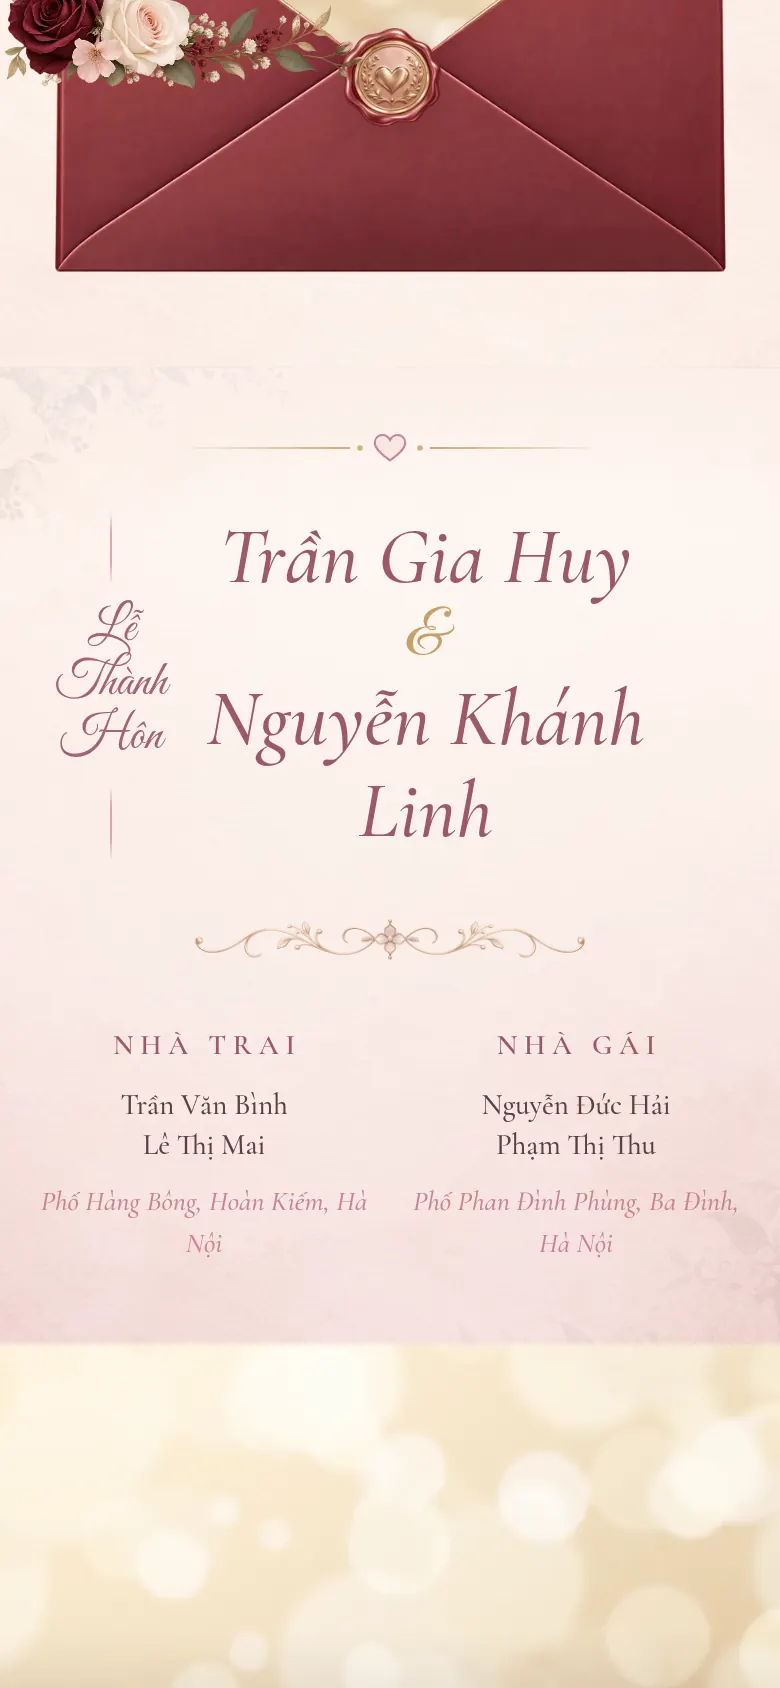
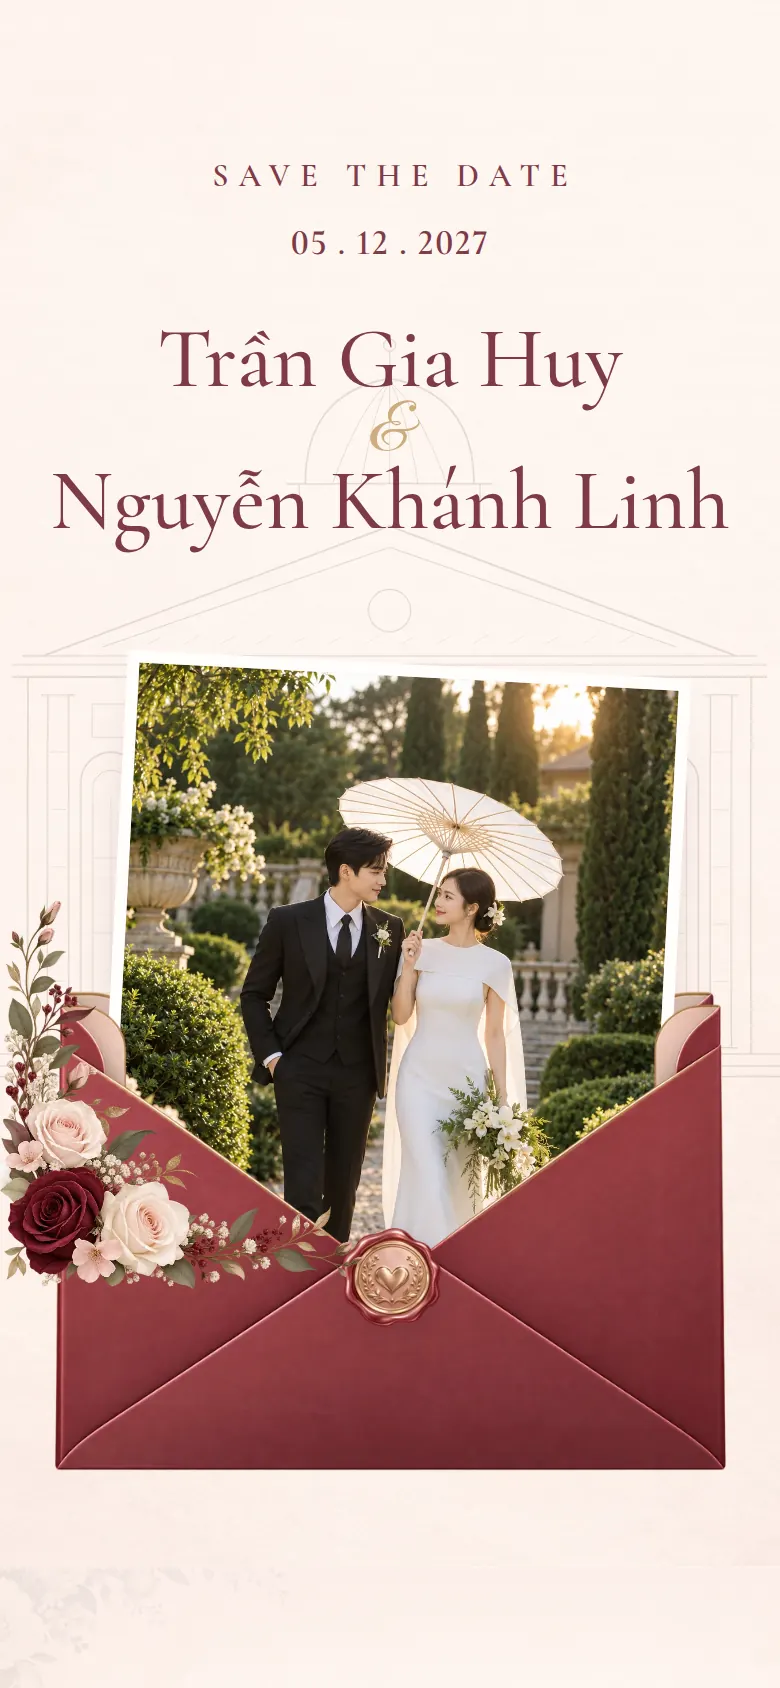
feat: fictional wedding photos for the Romantic Minimal showroom demo
Wire ten AI-generated fictional wedding photographs, created for the
showroom on 2026-10-13 from Product Owner-supplied visual references,
into the wedding.romantic-minimal.v1 public demo only, through
DEMO_TEMPLATE_SLOT_PHOTO_SETS: saveTheDatePhoto 01, justMarriedPhoto 02,
ourLovePhotos 03/04/05, gallery all ten (06, 07, 09, 08, 01, 04, 03, 05,
02, 10), thankYouPhoto 10. The set is keyed through the registered
manifest identity, so the RM-02 key-literal boundary stays intact.

Source PNGs (~25 MB) converted to same-size WebP (q86, ~2.4 MB total);
only the WebP files are committed, one file per photo. Romantic Minimal
inside screenshot re-captured (the closed cover is unchanged). Other
demos unchanged. Same fictional data; demo RSVP never sends a request.
No renderer, CSS, Staff Admin, migration, DB/RLS/API or Production change.

diff --git a/lib/showroom/demo/demo-media.ts b/lib/showroom/demo/demo-media.ts
@@ -1,4 +1,5 @@
 import type { MediaResolution, MediaResolver } from "../../invitation-rendering/invitation-view-model-types";
+import { PRODUCTION_RENDERER_MANIFESTS } from "../../../templates/core/production-renderer-manifests";
 
 /**
  * LAUNCH-P0-04 — showroom demo imagery.
@@ -7,7 +8,8 @@ import type { MediaResolution, MediaResolver } from "../../invitation-rendering/
  * generated in this repository; provenance in `lib/showroom/demo/ASSETS.md`.
  * They stand in for a couple's photographs in public demos only and are never
  * a production fallback for any Project. A renderer with an entry in
- * `DEMO_LEGACY_ROLE_PHOTO_SETS` shows that fictional photography instead.
+ * `DEMO_LEGACY_ROLE_PHOTO_SETS` or `DEMO_TEMPLATE_SLOT_PHOTO_SETS` shows that
+ * fictional photography instead.
  */
 
 export const DEMO_MEDIA_BASE_PATH = "/showroom/demo/";
@@ -91,9 +93,14 @@ export const DEMO_LEGACY_ROLE_PHOTO_SETS: Readonly<Record<string, DemoLegacyRole
  */
 export type DemoTemplateSlotPhotoSet = Readonly<Record<string, readonly DemoImage[]>>;
 
-/** A WebP photo under `<folder>/photos/`; portrait photos are 1086×1448, landscape 1448×1086. */
-function folderPhoto(folder: string, name: string, orientation: "PORTRAIT" | "LANDSCAPE" = "PORTRAIT"): DemoImage {
-  const [width, height] = orientation === "LANDSCAPE" ? [1448, 1086] : [1086, 1448];
+/** A WebP photo under `<folder>/photos/`; landscape photos are 1448×1086, portraits `portraitSize` (default 1086×1448). */
+function folderPhoto(
+  folder: string,
+  name: string,
+  orientation: "PORTRAIT" | "LANDSCAPE" = "PORTRAIT",
+  portraitSize: readonly [number, number] = [1086, 1448],
+): DemoImage {
+  const [width, height] = orientation === "LANDSCAPE" ? [1448, 1086] : portraitSize;
   return Object.freeze({ file: `${folder}/photos/${name}.webp`, width, height, orientation });
 }
 
@@ -112,11 +119,43 @@ const VH_PHOTOS = Object.freeze(
   ].map(([name, orientation]) => folderPhoto("vietnamese-heritage", name ?? "", orientation === "LANDSCAPE" ? "LANDSCAPE" : "PORTRAIT")),
 );
 
+/** Romantic Minimal portraits are 1024×1536 (2:3); 02 and 10 are 1448×1086 landscapes. */
+const RM_PHOTOS = Object.freeze(
+  [
+    ["01-save-the-date-umbrella-couple"],
+    ["02-just-married-garden-couple", "LANDSCAPE"],
+    ["03-our-love-bride-golden-garden"],
+    ["04-our-love-lakeside-couple"],
+    ["05-our-love-groom-garden"],
+    ["06-golden-hour-dance"],
+    ["07-garden-wedding-vows"],
+    ["08-rose-petal-celebration"],
+    ["09-wedding-couple-steps"],
+    ["10-thank-you-ivory-bow", "LANDSCAPE"],
+  ].map(([name, orientation]) =>
+    folderPhoto("romantic-minimal", name ?? "", orientation === "LANDSCAPE" ? "LANDSCAPE" : "PORTRAIT", [1024, 1536]),
+  ),
+);
+
 /** Numbered photo `n` (1-based, the file name prefix) of a set. */
 function nth(photos: readonly DemoImage[], n: number): DemoImage {
   const photo = photos[n - 1];
   if (photo === undefined) throw new Error("Showroom demo photo number is out of range");
   return photo;
+}
+
+/**
+ * The registered renderer key for one template identity, so frozen renderers
+ * whose static boundary forbids their key literal outside their own files can
+ * still be keyed here. Fails closed unless exactly one renderer matches.
+ */
+function registeredRendererKey(templateCode: string, versionNumber: number): string {
+  const matches = PRODUCTION_RENDERER_MANIFESTS.filter(
+    (manifest) => manifest.identity.templateCode === templateCode && manifest.identity.versionNumber === versionNumber,
+  );
+  const manifest = matches[0];
+  if (manifest === undefined || matches.length !== 1) throw new Error("Showroom demo photo set names no single registered renderer");
+  return manifest.compatibility.rendererKey;
 }
 
 /** Slot photo sets by exact renderer key. A renderer without one keeps the abstract mood images. */
@@ -132,6 +171,18 @@ export const DEMO_TEMPLATE_SLOT_PHOTO_SETS: Readonly<Record<string, DemoTemplate
     // All ten in file-number order, except 05 and 06 swap so the landscape 05 lands on the
     // album's full-width "wide" row (position 6) instead of a tall pair (position 5).
     gallery: Object.freeze([1, 2, 3, 4, 6, 5, 7, 8, 9, 10].map((n) => nth(VH_PHOTOS, n))),
+  }),
+  // wedding.romantic-minimal.v1 (RM-02 keeps that key literal inside the renderer's own files).
+  [registeredRendererKey("romantic-minimal", 1)]: Object.freeze({
+    saveTheDatePhoto: Object.freeze([nth(RM_PHOTOS, 1)]),
+    justMarriedPhoto: Object.freeze([nth(RM_PHOTOS, 2)]),
+    // Positions 1, 2, 3: bride solo, couple by the lake, groom solo.
+    ourLovePhotos: Object.freeze([nth(RM_PHOTOS, 3), nth(RM_PHOTOS, 4), nth(RM_PHOTOS, 5)]),
+    // All ten, two per row of uniform 4:5 tiles. Opens on frames not already shown above
+    // (06 dance / 07 vows, 09 close-up / 08 petals), then 01 / 04, the bride and groom
+    // solos side by side, and the two landscapes last, leading into the Thank You photo.
+    gallery: Object.freeze([6, 7, 9, 8, 1, 4, 3, 5, 2, 10].map((n) => nth(RM_PHOTOS, n))),
+    thankYouPhoto: Object.freeze([nth(RM_PHOTOS, 10)]),
   }),
 });
 

diff --git a/lib/showroom/__tests__/showroom-demo.test.ts b/lib/showroom/__tests__/showroom-demo.test.ts
@@ -111,6 +111,40 @@ describe("LAUNCH-P0-04 showroom demos run the real pipeline", () => {
     }
   });
 
+  it("Romantic Minimal shows its fictional photo set slot by slot for COMMON/GROOM/BRIDE", async () => {
+    const set = DEMO_TEMPLATE_SLOT_PHOTO_SETS["wedding.romantic-minimal.v1"];
+    expect(set).toBeDefined();
+    if (set === undefined) return;
+    const url = (image: DemoImage) => `${DEMO_MEDIA_BASE_PATH}${image.file}`;
+    const urlOf = (item: unknown) => (item as { status: string; url?: string }).url;
+    const name = (image: DemoImage) => image.file.split("/").pop()?.replace(/\.webp$/, "");
+    expect(set.saveTheDatePhoto?.map(name)).toStrictEqual(["01-save-the-date-umbrella-couple"]);
+    expect(set.justMarriedPhoto?.map(name)).toStrictEqual(["02-just-married-garden-couple"]);
+    expect(set.ourLovePhotos?.map(name)).toStrictEqual([
+      "03-our-love-bride-golden-garden",
+      "04-our-love-lakeside-couple",
+      "05-our-love-groom-garden",
+    ]);
+    expect(set.thankYouPhoto?.map(name)).toStrictEqual(["10-thank-you-ivory-bow"]);
+    // All ten distinct photographs, each file once.
+    const gallery = set.gallery?.map(name) ?? [];
+    expect(gallery.map((file) => file?.slice(0, 2)).sort()).toStrictEqual(["01", "02", "03", "04", "05", "06", "07", "08", "09", "10"]);
+    expect(new Set(Object.values(set).flat().map((image) => image.file)).size).toBe(10);
+    for (const image of Object.values(set).flat()) {
+      const landscape = image.file.includes("/02-") || image.file.includes("/10-");
+      expect([image.width, image.height, image.orientation], image.file).toStrictEqual(
+        landscape ? [1448, 1086, "LANDSCAPE"] : [1024, 1536, "PORTRAIT"],
+      );
+    }
+    for (const variant of INVITATION_VARIANTS) {
+      const { viewModel } = await buildDemoRenderData("wedding.romantic-minimal.v1", variant);
+      const slots = viewModel.media.templateSlots ?? {};
+      for (const [slotKey, images] of Object.entries(set)) {
+        expect((slots[slotKey] ?? []).map(urlOf), `${variant} ${slotKey}`).toStrictEqual(images.map(url));
+      }
+    }
+  });
+
   it("the Vietnamese Heritage demo runs v2 and shows only Gia Huy / Khánh Linh, in variant order", async () => {
     const vh = PUBLIC_SHOWROOM_TEMPLATES.find((template) => template.templateCode === "vietnamese-heritage");
     expect(vh?.rendererKey).toBe("wedding.vietnamese-heritage.v2");

diff --git a/docs/DECISIONS.md b/docs/DECISIONS.md
@@ -2934,7 +2934,7 @@ On branch `launch-p0-04-public-showroom` from `origin/weddingclick-v2` `aeca9a6`
 
 1. **Catalog.** A public-safe marketing manifest keyed by template code (`lib/showroom/showroom-catalog.ts`), validated against `PRODUCTION_COMPATIBILITY_REGISTRY`; tests also pin each public code/name to the catalog seed migrations (0033, 0047, 0048). The Staff templates API and its RLS are untouched. Procedure for new templates: TEMPLATE_SYSTEM §26.
 2. **Live demos.** `/mau-thiep/<code>` (COMMON), `/nha-trai` (GROOM) and `/nha-gai` (BRIDE) are prerendered at build for every PUBLIC entry (`dynamicParams = false`; anything else is a 404). They run the frozen pipeline over fictional source records (`lib/showroom/demo/`) through `InvitationRendererHostCore`, exactly like the internal harness: no Supabase, Project, published version, token, guest or customer data. RSVP uses a demo capability that always resolves `UNAVAILABLE` without a request (no false success, no write). Gift shows a clearly fictional "Ngân hàng Demo (thiệp mẫu)" with no QR image; no audio. Map links are Google Maps searches for public street addresses.
-3. **Demo imagery.** Original abstract bokeh/silk textures generated in-repo (no people); with them, person-bound portrait slots stay empty. Card and hero images are real screenshots of the demos. Provenance and hashes: `lib/showroom/demo/ASSETS.md`. **Amendment (2026-10-13, Product Owner):** the Elegant Editorial demo (`wedding.elegant-editorial.v1` only) uses ten Product-Owner-supplied, AI-generated fictional couple photos (`public/showroom/demo/elegant-editorial/photos/`) in every legacy role, cover, groom/bride portraits, Photo Story, Love Story photo and a ten-photo gallery, via `DEMO_LEGACY_ROLE_PHOTO_SETS` in `demo-media.ts`. They are never presented as a real couple, wedding or client portfolio. The other three demos are unchanged (abstract images, empty portraits). No renderer change. **Amendment 2 (2026-10-13, Product Owner):** the Vietnamese Heritage demo (`wedding.vietnamese-heritage.v1` only) uses ten Product-Owner-supplied fictional couple photos, converted from PNG to WebP (`public/showroom/demo/vietnamese-heritage/photos/`), via `DEMO_TEMPLATE_SLOT_PHOTO_SETS`: a per-renderer map from editor-manifest slot key to images, authoritative for that renderer, validated fail-closed against the declared slots and `maxCount`. Hero 01, portrait cluster 04 / 02 / 03, Love Story 05, gallery 01–04, 06, 05, 07–10 (05/06 swapped so the landscape 05 takes the album's full-width row). Their origin and rights are still to be confirmed by the Product Owner (`ASSETS.md`). Romantic Minimal and Our Wedding Story are unchanged.
+3. **Demo imagery.** Original abstract bokeh/silk textures generated in-repo (no people); with them, person-bound portrait slots stay empty. Card and hero images are real screenshots of the demos. Provenance and hashes: `lib/showroom/demo/ASSETS.md`. **Amendment (2026-10-13, Product Owner):** the Elegant Editorial demo (`wedding.elegant-editorial.v1` only) uses ten Product-Owner-supplied, AI-generated fictional couple photos (`public/showroom/demo/elegant-editorial/photos/`) in every legacy role, cover, groom/bride portraits, Photo Story, Love Story photo and a ten-photo gallery, via `DEMO_LEGACY_ROLE_PHOTO_SETS` in `demo-media.ts`. They are never presented as a real couple, wedding or client portfolio. The other three demos are unchanged (abstract images, empty portraits). No renderer change. **Amendment 2 (2026-10-13, Product Owner):** the Vietnamese Heritage demo (`wedding.vietnamese-heritage.v1` only) uses ten Product-Owner-supplied fictional couple photos, converted from PNG to WebP (`public/showroom/demo/vietnamese-heritage/photos/`), via `DEMO_TEMPLATE_SLOT_PHOTO_SETS`: a per-renderer map from editor-manifest slot key to images, authoritative for that renderer, validated fail-closed against the declared slots and `maxCount`. Hero 01, portrait cluster 04 / 02 / 03, Love Story 05, gallery 01–04, 06, 05, 07–10 (05/06 swapped so the landscape 05 takes the album's full-width row). Their origin and rights are still to be confirmed by the Product Owner (`ASSETS.md`). Romantic Minimal and Our Wedding Story are unchanged. **Amendment 3 (2026-10-13, Product Owner):** the Romantic Minimal demo (`wedding.romantic-minimal.v1` only) uses ten AI-generated fictional wedding photographs created for the showroom from Product Owner-supplied visual references, converted from PNG to WebP (`public/showroom/demo/romantic-minimal/photos/`), via `DEMO_TEMPLATE_SLOT_PHOTO_SETS`: Save The Date 01, Just Married 02, Our Love 03 / 04 / 05, gallery all ten (06, 07, 09, 08, 01, 04, 03, 05, 02, 10), Thank You 10. Never presented as a real customer or wedding. No renderer change; Our Wedding Story is still unchanged.
 4. **Pricing.** `lib/showroom/showroom-pricing.ts`: typed presentation keyed by package/add-on codes; a test pins every amount to the migration 0003 seed (COMMON 150 000, SEPARATE 250 000, PERSONALIZED_GUEST +50 000 VND). Pricing is shown per package, independent of template.
 5. **Contact and selection.** "Chọn mẫu này" → `/tu-van?mau=<code>` (resolved against PUBLIC entries only). The page shows the chosen template and a copyable message naming it by Vietnamese name and stable code. `https://zalo.me/<phone>` does not pre-fill messages, and the page says so. Contact comes only from `WEDDINGCLICK_CONTACT_ZALO_PHONE` / `WEDDINGCLICK_CONTACT_HOTLINE` (validated Vietnamese mobile numbers). When unset, no Zalo/call link is rendered, and the page shows "Kênh liên hệ đang được cập nhật". **Release blocker:** the Product Owner must supply the real numbers and set them per Vercel environment.
 6. **Design.** Ivory/champagne/gold-hairline/burgundy system in `app/_showroom/showroom.module.css`. Cormorant Garamond + Inter (OFL, Vietnamese subset, already used by certified renderers) via next/font. CSS-only on-load motion, disabled under `prefers-reduced-motion`. No scroll-driven reveal (content never depends on animation to be visible). Mobile nav is a native `<details>`. Social image `public/showroom/og-weddingclick.jpg` is set per page (homepage, consultation), never in a layout, so published invitations' Open Graph is unchanged.

diff --git a/lib/showroom/demo/ASSETS.md b/lib/showroom/demo/ASSETS.md
@@ -66,6 +66,27 @@ Wired only for `wedding.vietnamese-heritage.v1` through `DEMO_TEMPLATE_SLOT_PHOT
 | 09-celebration-confetti-red.webp | 1086×1448 | 103 KB | 275fc7559367bff0c18952090ad785965c0d639ed20a9faa2fe940ca89ca27fa |
 | 10-playful-couple-ao-dai-red-black.webp | 1086×1448 | 80 KB | e76d0607bd3551f6b754ff728d2a42f78713dea65707d67a9021ae965e2df3a7 |
 
+## Romantic Minimal demo photos — `public/showroom/demo/romantic-minimal/photos/`
+
+AI-generated **fictional** wedding photographs created for the WeddingClick showroom on 2026-10-13 from Product Owner-supplied visual references. They show no real customer, couple or wedding and must never be represented as one, or as client portfolio work. The reference images and any third-party watermarks or logos are not included. Source metadata (original file names, PNG sizes and SHA-256) is in the Product Owner's `photo-set.json` next to the PNGs.
+
+Only the WebP files below are committed and served. Pillow 12.1.1, `quality=86, method=6`, same pixel dimensions as the PNGs (portraits 1024×1536, landscapes 1448×1086), about 2.4 MB for all ten (the PNGs are about 25 MB). The source PNGs stay local and are not committed. Each photo exists once on disk; slots that reuse a photo reference the same file.
+
+Wired only for `wedding.romantic-minimal.v1` through `DEMO_TEMPLATE_SLOT_PHOTO_SETS` (`demo-media.ts`): `saveTheDatePhoto` 01; `justMarriedPhoto` 02; `ourLovePhotos` 03, 04, 05 (positions 1–3); `gallery` all ten as 06, 07, 09, 08, 01, 04, 03, 05, 02, 10 (two per row: it opens on frames not already shown above, keeps the bride and groom solos side by side and ends on the two landscapes before the Thank You); `thankYouPhoto` 10. The renderer is unchanged: its 4:5 album tiles crop the two landscapes, and the viewer shows every photo whole.
+
+| File | Size | Bytes | SHA-256 |
+|---|---|---|---|
+| 01-save-the-date-umbrella-couple.webp | 1024×1536 | 278 KB | 53cce0e5cdacd97a8c3e03cbbe36907ca4bd41bd0078b3a844088eb74222d164 |
+| 02-just-married-garden-couple.webp | 1448×1086 | 381 KB | e5088a73da9aa3826fc6f61b99e6c248412da2232da2382162a92cf835913fa8 |
+| 03-our-love-bride-golden-garden.webp | 1024×1536 | 247 KB | db92f1a755556c4b2dc946a9d686f764cb3c4611e0816904ab4dabdaf8916d85 |
+| 04-our-love-lakeside-couple.webp | 1024×1536 | 228 KB | 3d930ff740698ea21bdc47848e09b70a8241800021c382b4d4517b1bc0f3664c |
+| 05-our-love-groom-garden.webp | 1024×1536 | 237 KB | 16a08db360271b232f5e6d03eddedfd3711d99ea9c5d2e4375f3ae917dd06781 |
+| 06-golden-hour-dance.webp | 1024×1536 | 278 KB | 528f71fe32699c937762fdee4fd1cd5cf66fb16371b22d43f0cba0d8ca2d1ae2 |
+| 07-garden-wedding-vows.webp | 1024×1536 | 208 KB | cd670a13b0f24ad8cb0910466464b061425b24b57f125cf3a4e735eaddb2dde3 |
+| 08-rose-petal-celebration.webp | 1024×1536 | 211 KB | 5561f79d7c317c7f09fad969d4552cad327c7de11cc51a81ea0482f30cba6147 |
+| 09-wedding-couple-steps.webp | 1024×1536 | 145 KB | a22bdc4049a3332bdeb3a6a42edd1bca83b730e1b5181184a1528ed1b8a2d673 |
+| 10-thank-you-ivory-bow.webp | 1448×1086 | 180 KB | 2e2e61c0207e64053edc8027429496a85ca18c18f9557d59d51a7ef6aa885ac4 |
+
 ## Template screenshots — `public/showroom/templates/`
 
 Real screenshots of the public demo pages (`/mau-thiep/<code>`, demo bar removed) from a local production build, headless Chrome, 390×844 CSS px at 2× (780×1688), WebP quality 78. `<code>-cover.webp` is the closed opening screen; `<code>-inside.webp` is an inner section after opening. Re-capture whenever a renderer version, the demo data or the demo images change, and for every new template.
@@ -77,7 +98,7 @@ Real screenshots of the public demo pages (`/mau-thiep/<code>`, demo bar removed
 | vietnamese-heritage-cover.webp | — | 21396f3280d4334f488f8d11a8b453420d73eebf736003ced5f24eb521c91d34 |
 | vietnamese-heritage-inside.webp | families, portrait cluster | 2a801e4d0396867f6c95232d0271c59e9ab44be55b832000ff734045fc65beac |
 | romantic-minimal-cover.webp | — | baaa1fd05977ce4ffd559fe9b4af43607dff90759f27019ee5e1d78a17dfa15c |
-| romantic-minimal-inside.webp | envelope, couple, families | eb57a996108905bc82058985a6479603e0f14454e91eb1c6d30b55d0e31c4592 |
+| romantic-minimal-inside.webp | Save The Date photo rising from the envelope | df6b452d4b804b2782ac6446132e9628568f45c41edef00904916248d3025833 |
 | our-wedding-story-cover.webp | — | c816fc8764546953dcde388d2d7d8948ef35ea205b19ee8f705dbaccf23c5e74 |
 | our-wedding-story-inside.webp | invitation card | b31ed26be213b56d7c14daf0680a0df794a6a9bb9227ca67c863f1c2ed2a719a |
 

diff --git a/docs/TEMPLATE_SYSTEM.md b/docs/TEMPLATE_SYSTEM.md
@@ -692,7 +692,7 @@ Only certified template versions may become active for new production Projects.
 
 The public homepage, demo pages and consultation page are driven by one marketing manifest, `lib/showroom/showroom-catalog.ts` (`SHOWROOM_TEMPLATE_ENTRIES`), keyed by the authoritative template code. It is presentation only; it never activates, seeds or prices anything. Validation fails closed at module load: a `PUBLIC` entry must name a registered production renderer whose `identity.templateCode` and `displayName` equal the entry's `templateCode` and `nameEn`. `HIDDEN` entries are never rendered, routed or offered for selection.
 
-Demos (`/mau-thiep/<code>[/nha-trai|/nha-gai]`) run the frozen pipeline (RF-02 → RF-03 → RF-04 → production host core) over fictional source records in `lib/showroom/demo/`. Design keys come from the renderer manifest and photo slots from the editor manifest, so a new renderer needs no demo code. With the abstract mood images, person-bound portrait slots stay empty. A `LEGACY_ROLES` renderer with an entry in `DEMO_LEGACY_ROLE_PHOTO_SETS` (`lib/showroom/demo/demo-media.ts`; today only Elegant Editorial) instead shows that fictional photo set in every role, portraits included. Likewise a `TEMPLATE_SLOTS` renderer with an entry in `DEMO_TEMPLATE_SLOT_PHOTO_SETS` (today only Vietnamese Heritage) shows exactly the listed images per slot key, in position order. Slots it omits stay empty, and a key that is not a declared slot, or a list over the slot's `maxCount`, fails the demo build.
+Demos (`/mau-thiep/<code>[/nha-trai|/nha-gai]`) run the frozen pipeline (RF-02 → RF-03 → RF-04 → production host core) over fictional source records in `lib/showroom/demo/`. Design keys come from the renderer manifest and photo slots from the editor manifest, so a new renderer needs no demo code. With the abstract mood images, person-bound portrait slots stay empty. A `LEGACY_ROLES` renderer with an entry in `DEMO_LEGACY_ROLE_PHOTO_SETS` (`lib/showroom/demo/demo-media.ts`; today only Elegant Editorial) instead shows that fictional photo set in every role, portraits included. Likewise a `TEMPLATE_SLOTS` renderer with an entry in `DEMO_TEMPLATE_SLOT_PHOTO_SETS` (today Vietnamese Heritage and Romantic Minimal) shows exactly the listed images per slot key, in position order. Slots it omits stay empty, and a key that is not a declared slot, or a list over the slot's `maxCount`, fails the demo build.
 
 ### Adding the fifth (or any) template to the showroom
 
